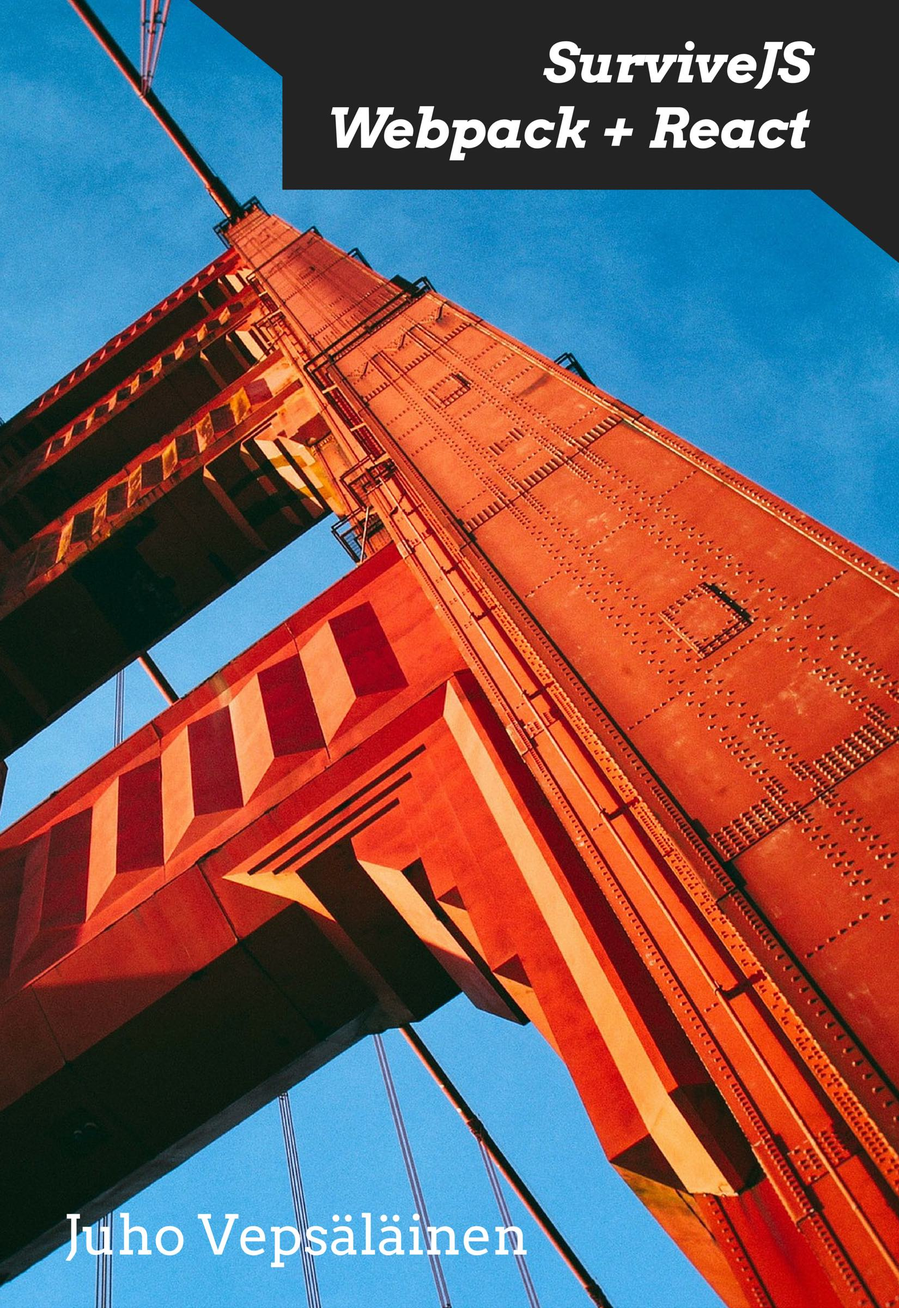
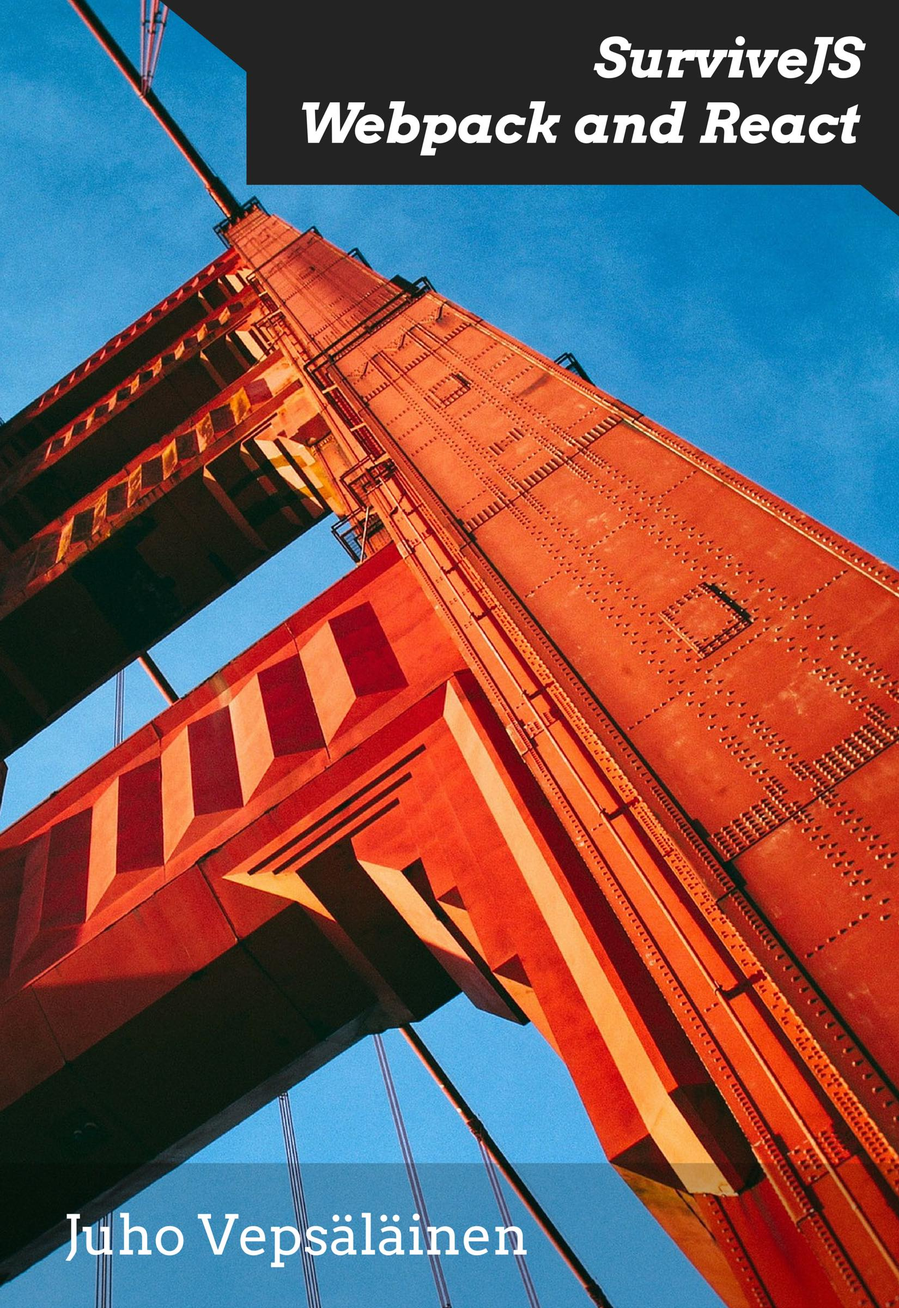
Tweak name and add cover to README

Changed region(s): [[0.0, 0.875, 1.0, 1.0], [0.1855, 0.0, 1.0, 0.2188]]

diff --git a/README.md b/README.md
@@ -1,8 +1,10 @@
-# SurviveJS - Webpack + React
+# SurviveJS - Webpack and React
 
-Webpack, a module bundler, solves a significant problem for web developers. It can be daunting to learn but once you grok it, life gets easier. Same goes for React, a JavaScript library for building UIs. SurviveJS - Webpack + React shows you how to build a little Kanban application using these technologies. During the process you will learn the basics and will be able to take the skills to your own projects.
+<img align="right" width="248" height="360" src="manuscript/images/title_page_small.jpg">
 
-This book was inspired by work done with [react-webpack-cookbook](https://github.com/christianalfoni/react-webpack-cookbook).
+Webpack, a module bundler, solves a significant problem for web developers. It can be daunting to learn but once you grok it, life gets easier. Same goes for React, a JavaScript library for building UIs. This book shows you how to build a little Kanban application using these technologies. During the process you will learn the basics and will be able to take the skills to your own projects.
+
+The book was inspired by work done with [react-webpack-cookbook](https://github.com/christianalfoni/react-webpack-cookbook).
 
 ## Generating
 
